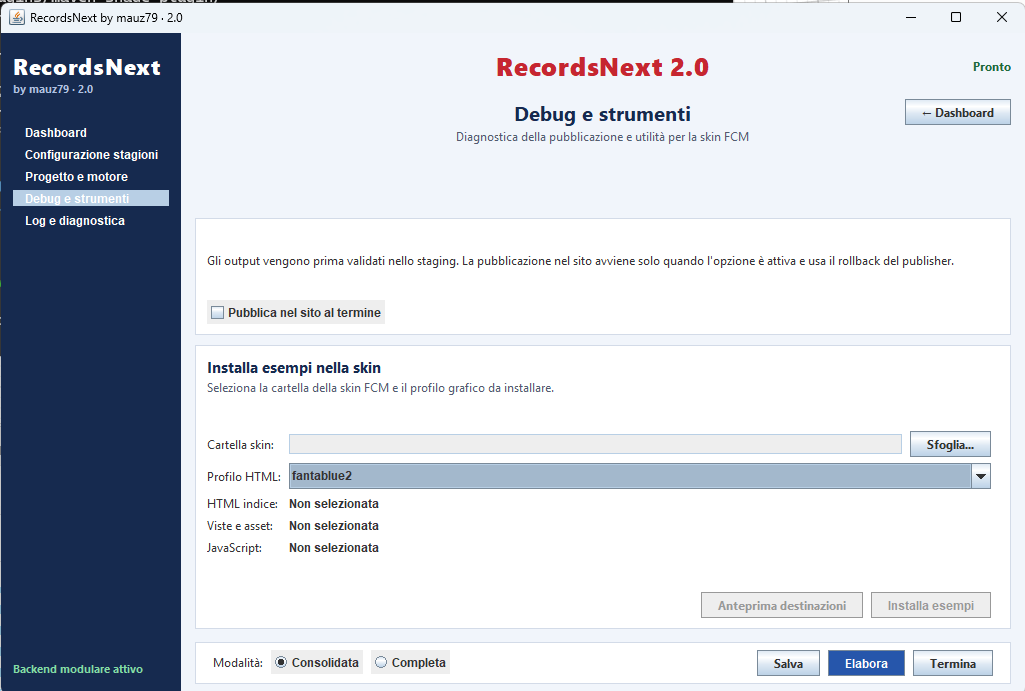
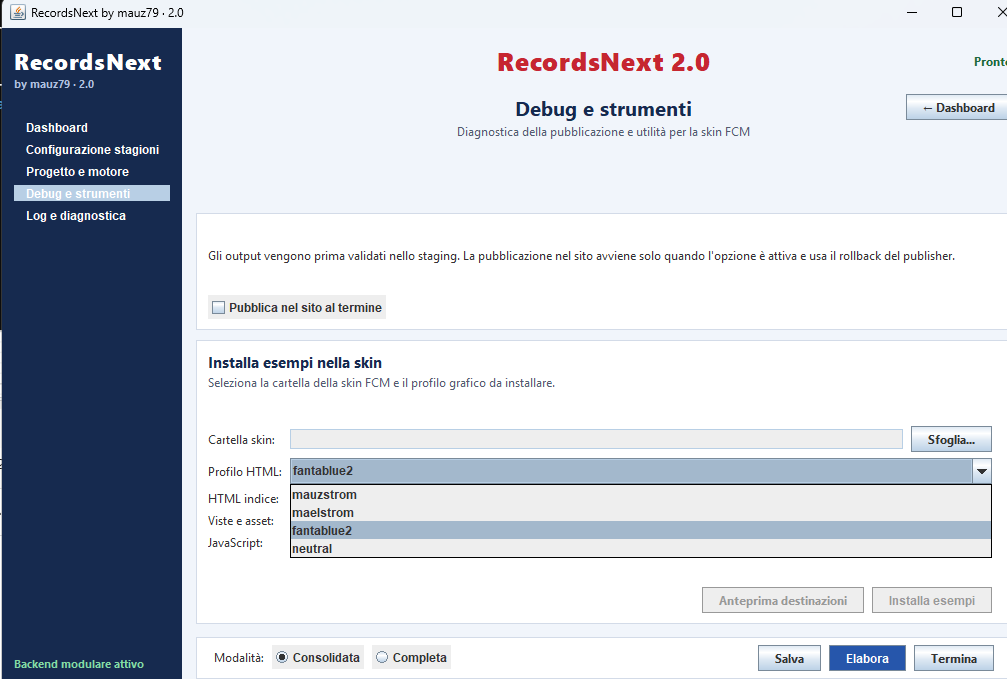
Completa release RecordsNext 2.0.0

diff --git a/docs/CULOMETRO.md b/docs/CULOMETRO.md
@@ -42,7 +42,9 @@ I controlli semplificati regolano in modo guidato:
 - numero di partite richieste per una piena affidabilità;
 - influenza della rarità.
 
-Per modificare direttamente i parametri numerici si usa la scheda **Avanzate**.
+Gli slider mostrano il **fondoscala minimo e massimo** e consentono di vedere immediatamente la posizione del valore corrente.
+
+Per modificare direttamente i parametri numerici si usa la scheda **Avanzata**.
 
 ## Parametri avanzati
 
@@ -50,13 +52,15 @@ Per modificare direttamente i parametri numerici si usa la scheda **Avanzate**.
 
 La configurazione attuale usa:
 
-| Parametro | Valore |
-|---|---:|
-| Partite minime affidabili | 14 |
-| Sensibilità della scala (`kScale`) | 3,5 |
-| Peso evento secondario | 0,2 |
-| Moltiplicatore massimo rarità | 6,5 |
-| Occorrenze storiche minime | 3 |
+| Parametro | Valore corrente | Fondoscala |
+|---|---:|---:|
+| Partite minime affidabili | 14 | 10–40 |
+| Sensibilità della scala (`kScale`) | 3,5 | 3,0–6,0 |
+| Peso evento secondario | 0,2 | 0,10–0,35 |
+| Moltiplicatore massimo rarità | 6,5 | 3,0–6,5 |
+| Occorrenze storiche minime | 3 | 1–20 |
+
+Nella GUI ogni slider mostra anche il valore corrente sulla destra, oltre al range ammesso.
 
 ### Partite minime affidabili
 

diff --git a/README.md b/README.md
@@ -91,6 +91,20 @@ Il **Culometro** è opzionale e viene generato soltanto quando viene esplicitame
 
 La configurazione permette di scegliere un profilo semplice oppure intervenire sui parametri avanzati, sui pesi dei singoli fattori e sulle etichette.
 
+### Profilo semplice e slider principali
+
+![Culometro - profilo semplice](docs/screenshots/15_culometro_profilo_semplice.png)
+
+Gli slider mostrano il fondoscala e il valore selezionato, così è immediato capire quanto il parametro è vicino al minimo o al massimo ammesso.
+
+### Parametri avanzati
+
+![Culometro - parametri avanzati](docs/screenshots/16_culometro_avanzato.png)
+
+Anche i parametri avanzati mostrano minimo, massimo e valore corrente.
+
+### Pesi dei fattori
+
 ![Pesi Culometro](docs/screenshots/17_culometro_pesi_fattori.png)
 
 Il viewer dispone anche della vista **Eventi**, con filtro dedicato per il tipo di evento.
